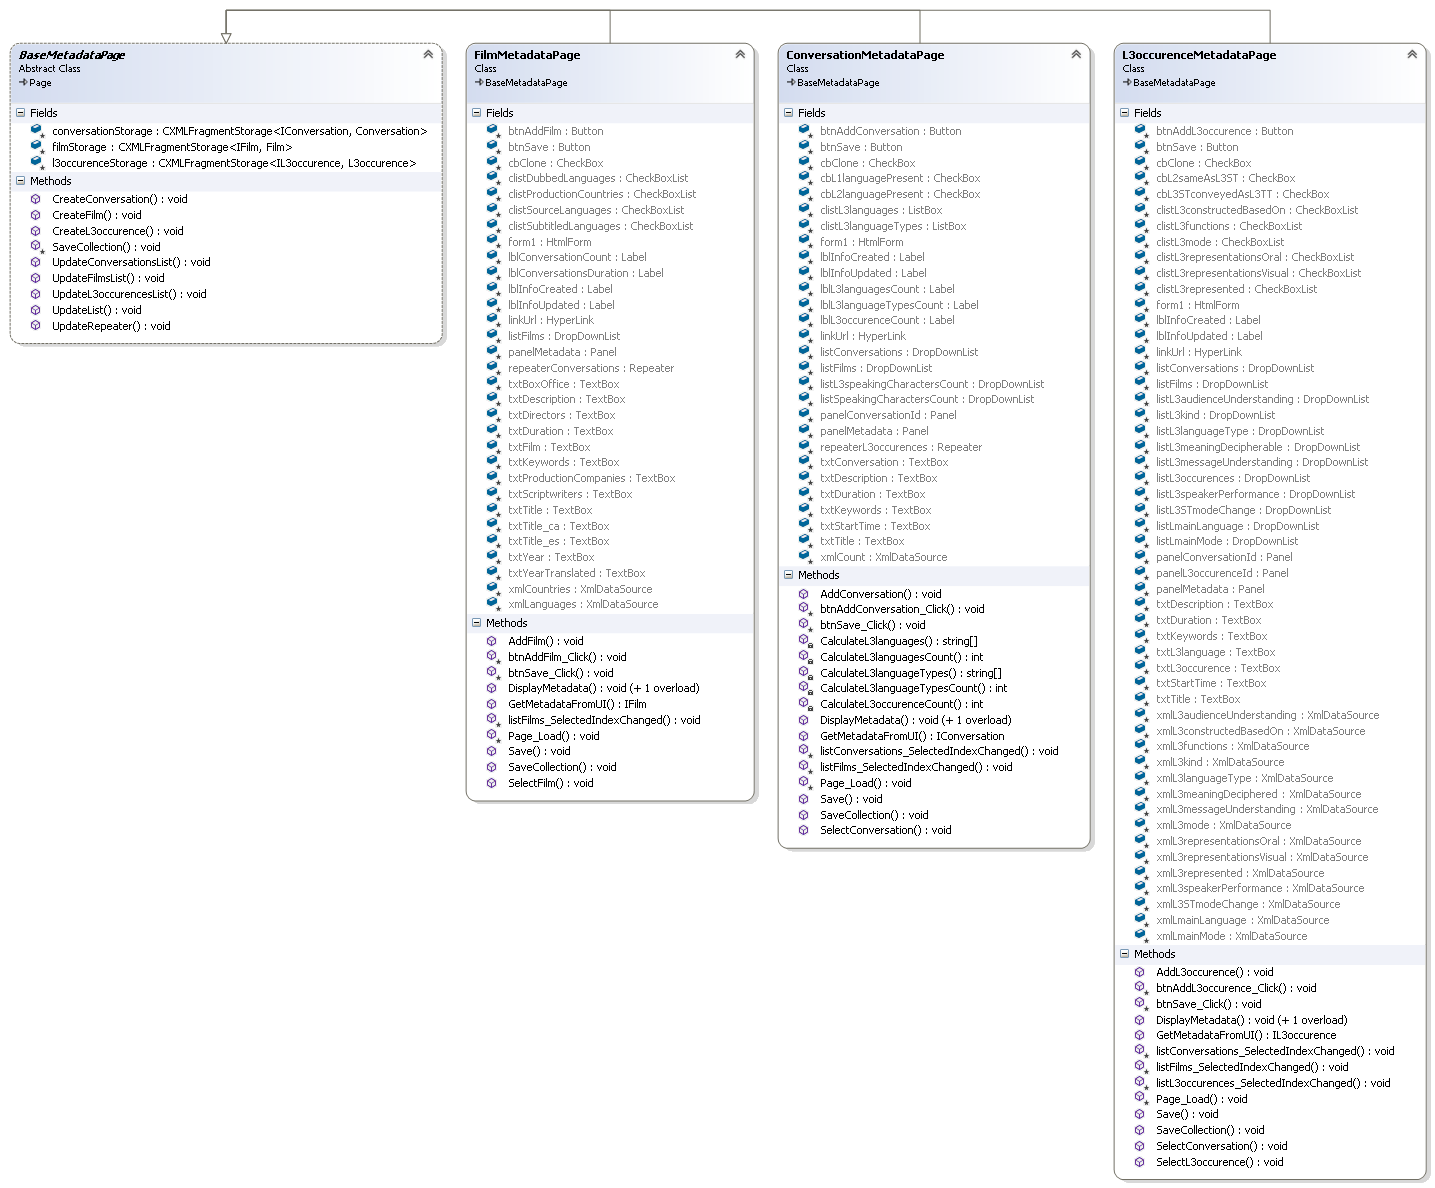
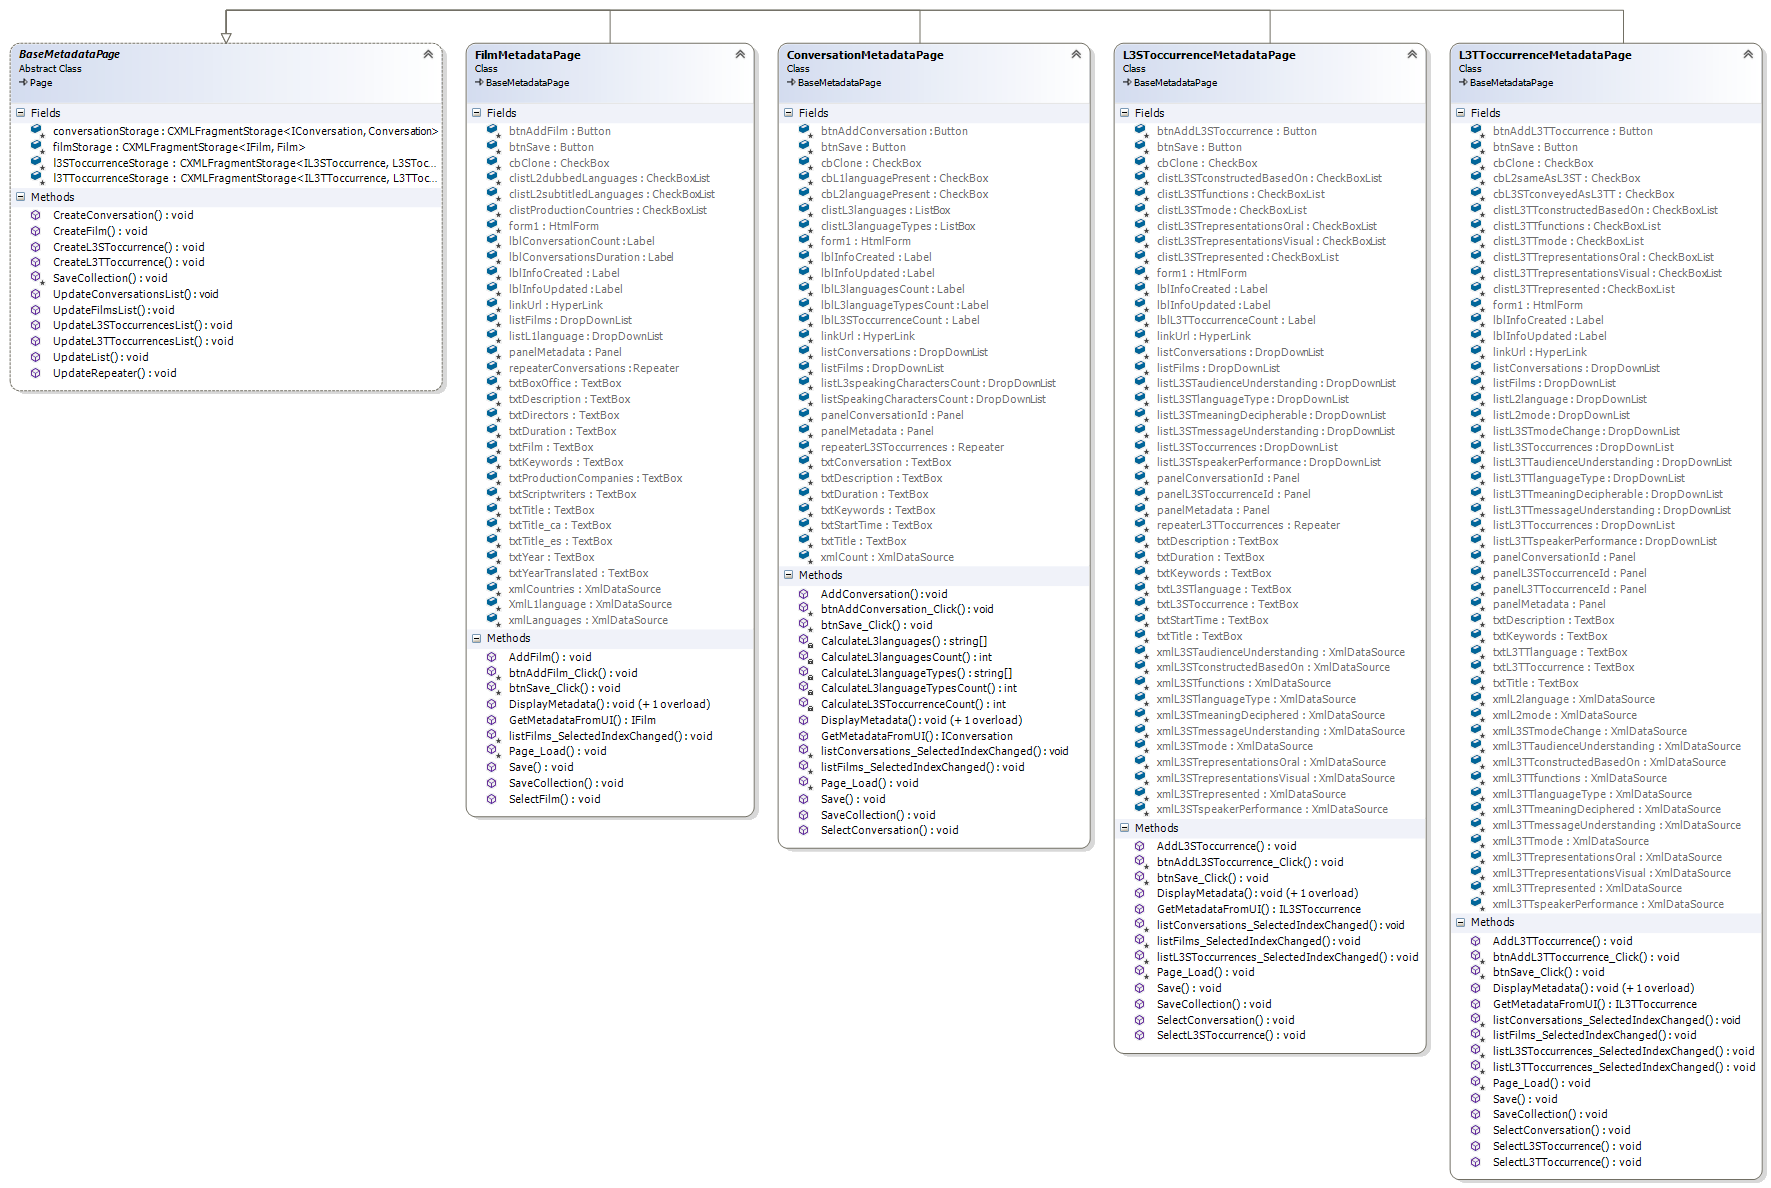
- Processing calculated fields in L3SToccurrence form - Updated diagrams

Changed region(s): [[0.0, 0.0311, 1.0, 0.9966]]

diff --git a/L3SToccurrence/metadata/default.aspx.cs b/L3SToccurrence/metadata/default.aspx.cs
@@ -1,6 +1,6 @@
 //Project: Trafilm.Gallery (http://github.com/zoomicon/Trafilm.Gallery)
 //Filename: L3SToccurrence\metadata\default.aspx.cs
-//Version: 20160525
+//Version: 20160526
 
 using Metadata.CXML;
 using Trafilm.Metadata;
@@ -72,7 +72,7 @@ namespace Trafilm.Gallery
     {
       IL3SToccurrence metadata = l3SToccurrenceStorage[l3SToccurrenceId];
       l3TToccurrenceStorage = new CXMLFragmentStorage<IL3TToccurrence, L3TToccurrence>(Path.Combine(Request.PhysicalApplicationPath, @"L3TToccurrence\L3TToccurrences.cxml"), Path.Combine(Request.PhysicalApplicationPath, @"L3TToccurrence\metadata"), l3SToccurrenceId + ".*.cxml");
-      //TODO// metadata.L3TToccurrences = l3TToccurrenceStorage.Values; //this updates calculated properties //assumes "l3TToccurrenceStorage" has been updated
+      metadata.L3TToccurrences = l3TToccurrenceStorage.Values; //this updates calculated properties //assumes "l3TToccurrenceStorage" has been updated
       DisplayMetadata(metadata);
     }
 
@@ -124,7 +124,7 @@ namespace Trafilm.Gallery
 
       //Calculated properties//
 
-      //TODO// UI.Load(lblL3TToccurrenceCount, metadata.L3TToccurrenceCount.ToString());
+      UI.Load(lblL3TToccurrenceCount, metadata.L3TToccurrenceCount.ToString());
     }
 
     #endregion
@@ -182,7 +182,7 @@ namespace Trafilm.Gallery
       //Calculated properties//
 
       l3TToccurrenceStorage = new CXMLFragmentStorage<IL3TToccurrence, L3TToccurrence>(Path.Combine(Request.PhysicalApplicationPath, @"L3TToccurrence\L3TToccurrences.cxml"), Path.Combine(Request.PhysicalApplicationPath, @"L3TToccurrence\metadata"), key + ".*.cxml");
-      //TODO// metadata.L3TToccurrences = l3TToccurrenceStorage.Values; //this updates calculated properties //assumes "l3TToccurrenceStorage" has been updated
+      metadata.L3TToccurrences = l3TToccurrenceStorage.Values; //this updates calculated properties //assumes "l3TToccurrenceStorage" has been updated
 
       return metadata;
     }
